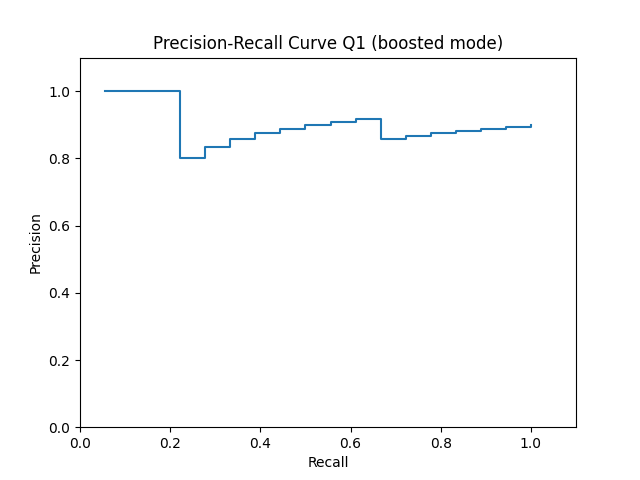
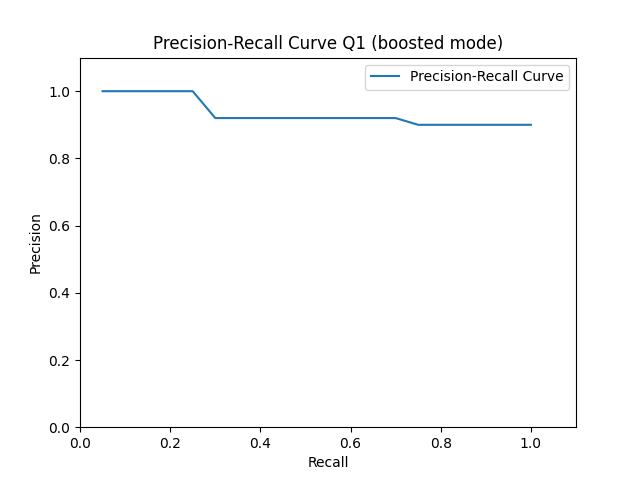
fixed evaluation curves

diff --git a/evaluation/evaluation.py b/evaluation/evaluation.py
@@ -97,13 +97,15 @@ def precision_recall(results: list, mode: str, query: int) -> None:
     x = [round(0.05 * x, 2) for x in range(1, 21)]
     y = acc_results(precision_results, recall_results)
 
+    plt.xlim(0, 1.1)
+    plt.ylim(0, 1.1)
+
     plt.plot(x, y, label='Precision-Recall Curve')
     plt.xlabel('Recall')
     plt.ylabel('Precision')
     plt.title(f'Precision-Recall Curve Q{query} ({mode} mode)')
     plt.legend()
     plt.savefig(f'./q{query}/p-r-curve-{mode}.png')
-    plt.show()
     plt.close()
 
 def compute_rcs(results: dict, query: int):
